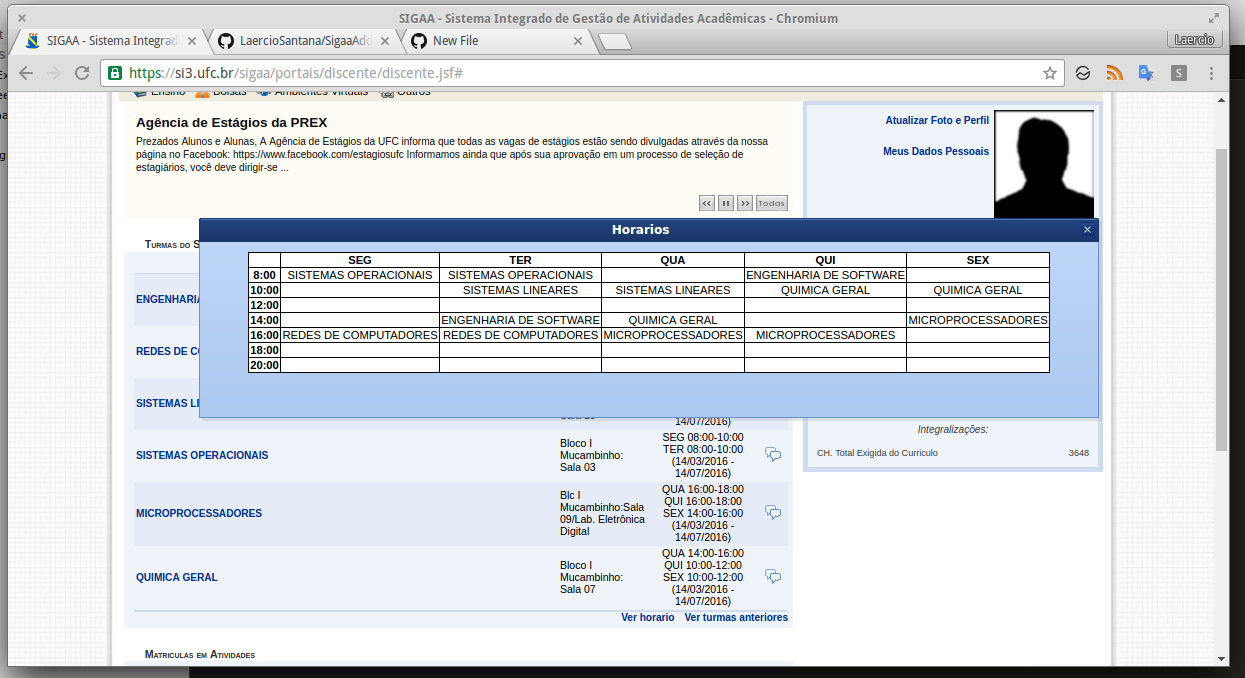
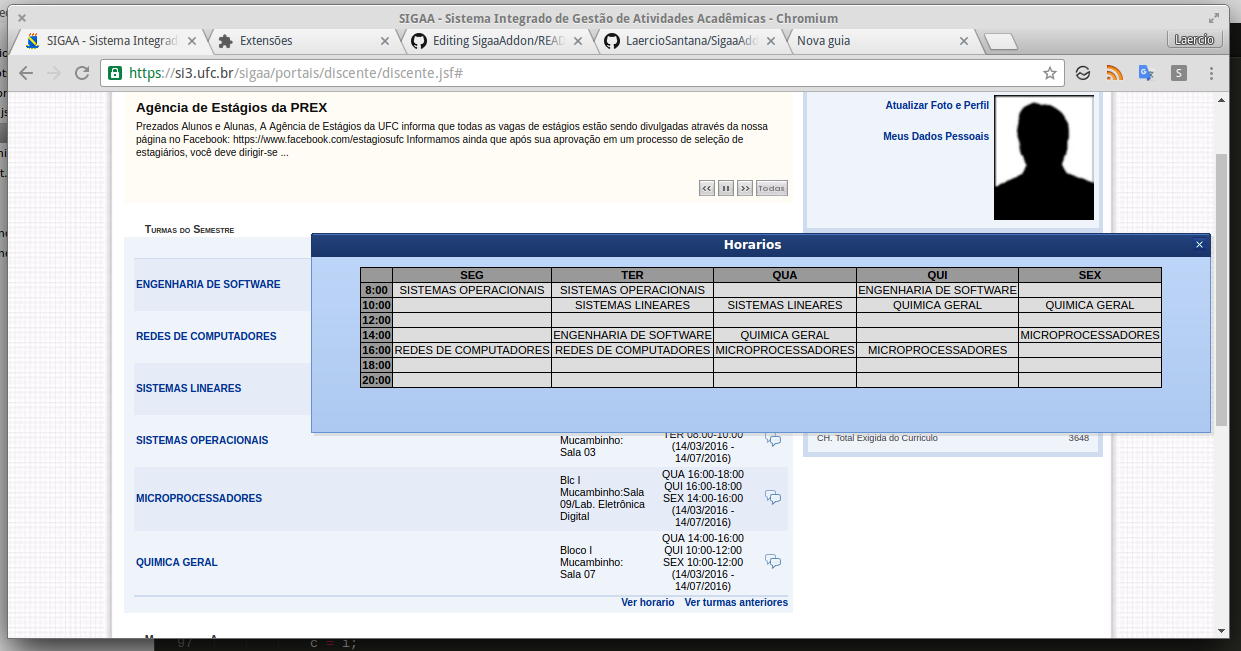
*Adds styles the schedules table

diff --git a/SigaaAddon/inject.js b/SigaaAddon/inject.js
@@ -75,10 +75,15 @@ function makeSchedule(classes){
 
      var tableEl = matrixToTable(table);
 
-    //style table
+    //##style table##
+    var headColor = "#999999",
+        bodyColor = "#DDDDDD"; 
     var stlyteTable = { margin: "auto", "background-color": "white"};
-    tableEl.find("tr:first-child").css("font-weight", "bold");
-    tableEl.find("td:first-child").css("font-weight", "bold");
+    //td from head
+    tableEl.find("tr:first-child").css({"font-weight": "bold", "background-color": headColor});
+    tableEl.find("td:first-child").css({"font-weight": "bold", "background-color": headColor});
+    tableEl.find("td:not(tr:first-child td, td:first-child)").css("background-color", bodyColor);
+    
     tableEl.find("td").css("border", "1px solid black");
     tableEl.addClass("table");
     tableEl.css(stlyteTable);

diff --git a/README.md b/README.md
@@ -3,15 +3,18 @@ Extensão para navegadores baseados em Chromium com adicionais para si3
 
 **O que isso adiciona no Sigaa?**<br>
 Bem, por hora, esta extensão habilita o login no si3 pelo Chromium e 
-adiciona um link no rodapé das diciplinas que da acesso a um horário.      
+adiciona um link no rodapé das diciplinas que dá acesso a uma tabela de horários.      
 
 **Para adicionar SigaaAddon ao Chromium:**<br>
 Acesse pelo navegador "chrome://extensions/"<br>
 Clique em "Carregar extensão expandida", e selecione a pasta SigaaAddon.<br>
 
-**Como adicionar SigaaAddon ao Firefox:**
+**Como adicionar SigaaAddon ao Firefox:**<br>
 Ainda não empacotamos esta extensão para ao Firefox, mas não se desespere, ainda há um caminho…<br>
 - Primeiro acesse o si3 pelo Firefox
 - No menu discente, aperte SHIFT+CTRL+I e clique na aba console
-- Agora copie o código do [inject.js](https://github.com/LaercioSantana/SigaaAddon/blob/master/SigaaAddon/inject.js) e copie no console do Firefox, de ENTER
+- Agora copie o código do [inject.js](https://github.com/LaercioSantana/SigaaAddon/blob/master/SigaaAddon/inject.js) e cole no console do Firefox, de ENTER
 - Pronto, agora um link "Ver horario" foi adicionado ao rodapé do quadro "Turmas do semestre"
+
+**Screenshots**
+![Sigaa Addon show schedule](https://raw.githubusercontent.com/LaercioSantana/SigaaAddon/master/Screenshots/horarios.png)
